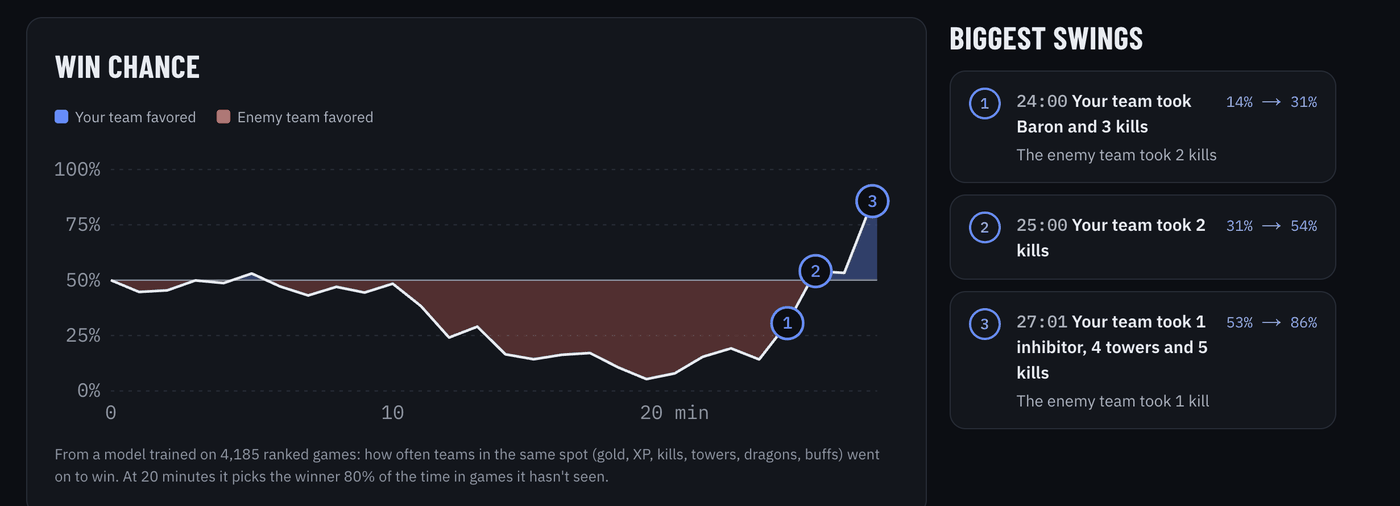
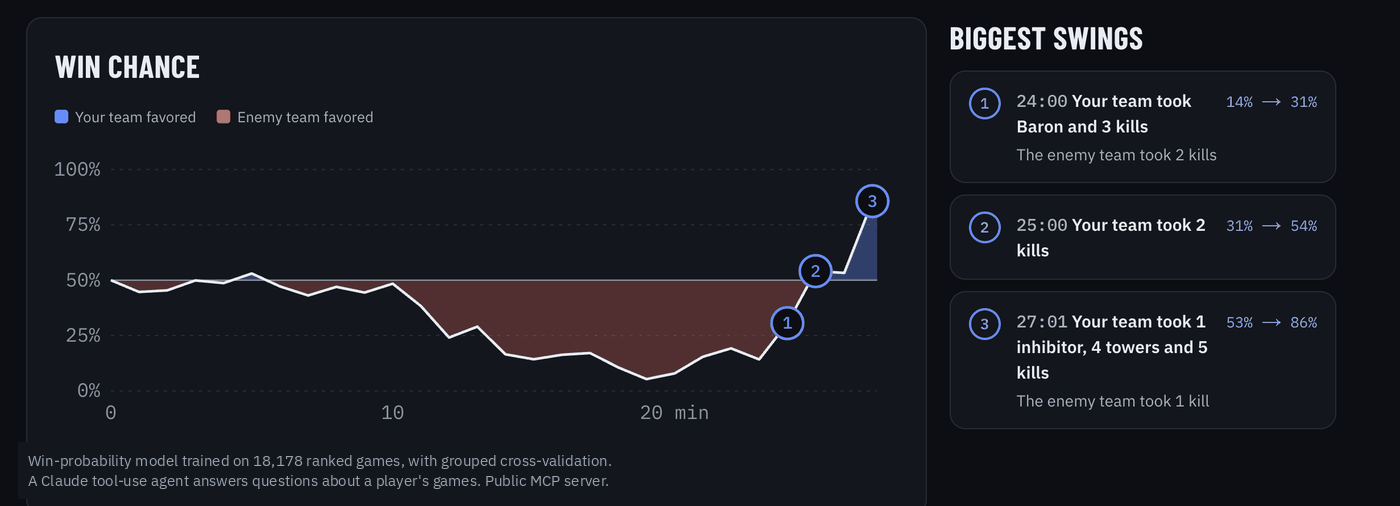
Update the portfolio to the October 2026 résumé.
Show Turnpoint, Petri, and X Arena with résumé-backed claims, refresh the bio and skills, and drop the old 80% / 4,000-game stats from the page and preview images.

Changed region(s): [[0.0, 0.8893, 0.645, 0.9783]]

diff --git a/index.html b/index.html
@@ -4,14 +4,14 @@
 <meta charset="utf-8">
 <meta name="theme-color" content="#000000">
 <meta name="viewport" content="width=device-width, initial-scale=1, viewport-fit=cover">
-<meta name="description" content="Jasper Li, CS student at the University of Toronto. Portfolio featuring Turnpoint, a League of Legends match analyzer.">
+<meta name="description" content="Jasper Li, second-year CS Specialist at the University of Toronto. Solo AI apps: Turnpoint, Petri, and X Arena.">
 <title>Jasper Li</title>
 <link rel="icon" href="favicon.svg" type="image/svg+xml">
 <link rel="canonical" href="https://jaspyplayz.github.io/">
 <meta property="og:type" content="website">
 <meta property="og:url" content="https://jaspyplayz.github.io/">
 <meta property="og:title" content="Jasper Li">
-<meta property="og:description" content="CS student at the University of Toronto. Builder of Turnpoint, a League of Legends match analyzer.">
+<meta property="og:description" content="Second-year CS Specialist at U of T. Solo shipped AI apps: Turnpoint, a League match analyzer; Petri, a self-evolving web app; and X Arena.">
 <meta property="og:image" content="https://jaspyplayz.github.io/img/og.png">
 <meta property="og:image:width" content="1200">
 <meta property="og:image:height" content="630">
@@ -20,7 +20,7 @@
 <link rel="preconnect" href="https://fonts.gstatic.com" crossorigin>
 <link rel="stylesheet" href="https://fonts.googleapis.com/css2?family=Archivo:wdth,wght@62..125,400..800&family=IBM+Plex+Sans:wght@400;500;600&family=JetBrains+Mono:wght@400;600&display=swap">
 <style>
-/* All-black, single theme. Layout: one compact card-width column; header, one project, skills, contact. */
+/* All-black, single theme. Layout: one compact card-width column; header, projects, skills, contact. */
 :root {
   --bg: #000000;
   --surface: #0a0a0a;
@@ -56,13 +56,16 @@ header p.bio { color: var(--muted); max-width: 60ch; }
 
 .label { font: 600 .68rem/1 var(--mono); letter-spacing: .14em; text-transform: uppercase; color: var(--muted); margin-bottom: 10px; }
 
-.project { display: block; background: var(--surface); border: 1px solid var(--line); border-radius: 10px; overflow: hidden; text-decoration: none; transition: border-color .15s; }
-.project:hover { border-color: #555; color: inherit; }
+.projects { display: grid; gap: 14px; }
+.project { display: block; background: var(--surface); border: 1px solid var(--line); border-radius: 10px; overflow: hidden; text-decoration: none; }
+.project:hover { border-color: #333; }
 .project img { display: block; width: 100%; height: auto; border-bottom: 1px solid var(--line); }
 .project .body { padding: 14px 16px 16px; display: grid; gap: 8px; }
 .project .row { display: flex; justify-content: space-between; align-items: baseline; gap: 12px; flex-wrap: wrap; }
 h2 { font-size: 1.15rem; font-weight: 700; }
-.repo { font: 400 .75rem/1 var(--mono); color: var(--gold); }
+.repo { font: 400 .75rem/1 var(--mono); color: var(--gold); text-decoration: none; }
+a.repo:hover { text-decoration: underline; }
+.repo.quiet { color: var(--muted); }
 .project p { color: var(--muted); font-size: .9rem; }
 .stats { display: flex; flex-wrap: wrap; gap: 4px 16px; font: 400 .75rem/1.4 var(--mono); color: var(--muted); font-variant-numeric: tabular-nums; }
 .stats b { color: var(--ink); font-weight: 600; }
@@ -94,8 +97,8 @@ h2 { font-size: 1.15rem; font-weight: 700; }
 <main>
   <header>
     <h1>Jasper Li</h1>
-    <div class="sub">CS @ University of Toronto · <a href="https://github.com/Jaspyplayz" target="_blank" rel="noopener">github.com/Jaspyplayz</a></div>
-    <p class="bio">I build tools that turn raw game data into something a player can act on.</p>
+    <div class="sub">CS Specialist · University of Toronto, St. George · Expected 2029</div>
+    <p class="bio">I build shipped AI products. The projects here are solo and personal, not affiliated with the university.</p>
     <div class="contact">
       <a href="https://github.com/Jaspyplayz" target="_blank" rel="noopener"><svg class="ico" viewBox="0 0 24 24" aria-hidden="true"><path fill="currentColor" d="M12 .297c-6.63 0-12 5.373-12 12 0 5.303 3.438 9.8 8.205 11.385.6.113.82-.258.82-.577 0-.285-.01-1.04-.015-2.04-3.338.724-4.042-1.61-4.042-1.61C4.422 18.07 3.633 17.7 3.633 17.7c-1.087-.744.084-.729.084-.729 1.205.084 1.838 1.236 1.838 1.236 1.07 1.835 2.809 1.305 3.495.998.108-.776.417-1.305.76-1.605-2.665-.3-5.466-1.332-5.466-5.93 0-1.31.465-2.38 1.235-3.22-.135-.303-.54-1.523.105-3.176 0 0 1.005-.322 3.3 1.23.96-.267 1.98-.399 3-.405 1.02.006 2.04.138 3 .405 2.28-1.552 3.285-1.23 3.285-1.23.645 1.653.24 2.873.12 3.176.765.84 1.23 1.91 1.23 3.22 0 4.61-2.805 5.625-5.475 5.92.42.36.81 1.096.81 2.22 0 1.606-.015 2.896-.015 3.286 0 .315.21.69.825.57C20.565 22.092 24 17.592 24 12.297c0-6.627-5.373-12-12-12"/></svg>GitHub</a>
       <a href="https://www.linkedin.com/in/jasper-li-567560349/" target="_blank" rel="noopener"><svg class="ico" viewBox="0 0 24 24" aria-hidden="true"><path fill="currentColor" d="M20.447 20.452h-3.554v-5.569c0-1.328-.027-3.037-1.852-3.037-1.853 0-2.136 1.445-2.136 2.939v5.667H9.351V9h3.414v1.561h.046c.477-.9 1.637-1.85 3.37-1.85 3.601 0 4.267 2.37 4.267 5.455v6.286zM5.337 7.433c-1.144 0-2.063-.926-2.063-2.065 0-1.138.92-2.063 2.063-2.063 1.14 0 2.064.925 2.064 2.063 0 1.139-.925 2.065-2.064 2.065zm1.782 13.019H3.555V9h3.564v11.452zM22.225 0H1.771C.792 0 0 .774 0 1.729v20.542C0 23.227.792 24 1.771 24h20.451C23.2 24 24 23.227 24 22.271V1.729C24 .774 23.2 0 22.222 0h.003z"/></svg>LinkedIn</a>
@@ -106,8 +109,8 @@ h2 { font-size: 1.15rem; font-weight: 700; }
   <section>
     <div class="label">About</div>
     <div class="about">
-      <p>I'm a computer science student at the University of Toronto. I like projects where the hard part is turning messy data into an answer someone can use, and most of mine start with games I play.</p>
-      <p>Lately that's meant full-stack TypeScript, Postgres, and small machine learning models written from scratch. I'm looking for internships and teams where I can ship real things and learn from people who've done it longer.</p>
+      <p>I'm a second-year Computer Science Specialist at the University of Toronto, St. George, expecting to graduate in 2029. I like projects where the hard part is turning a messy game, or someone's idea, into something that ships.</p>
+      <p>I'm looking for software engineering and AI engineering internships in Toronto and Canada.</p>
     </div>
   </section>
 
@@ -120,22 +123,41 @@ h2 { font-size: 1.15rem; font-weight: 700; }
   </section>
 
   <section>
-    <div class="label">Project</div>
-    <a class="project" href="https://github.com/Jaspyplayz/League-Web-App" target="_blank" rel="noopener">
-      <img src="img/hero.png" width="1400" height="506" alt="Turnpoint match page showing a team's win chance at every minute">
-      <div class="body">
-        <div class="row"><h2>Turnpoint</h2><span class="repo">Jaspyplayz/League-Web-App ↗</span></div>
-        <p>A League of Legends match analyzer. It compares you to the enemy in your role minute by minute and explains the turning points that decided the game, using win-chance and game-score models I wrote from scratch in TypeScript.</p>
-        <div class="stats"><span><b>80%</b> winner picked at 20:00</span><span><b>84%</b> from player stats alone</span><span><b>4,000+</b> training games</span></div>
-      </div>
-    </a>
-    <p class="more" style="margin-top:8px">Live at <a href="https://league-web-app.vercel.app" target="_blank" rel="noopener">league-web-app.vercel.app</a></p>
+    <div class="label">Projects</div>
+    <div class="projects">
+      <article class="project">
+        <img src="img/hero.png" width="1400" height="506" alt="Turnpoint match page showing a team's win chance at every minute">
+        <div class="body">
+          <div class="row"><h2>Turnpoint</h2><a class="repo" href="https://github.com/Jaspyplayz/League-Web-App" target="_blank" rel="noopener">Jaspyplayz/League-Web-App ↗</a></div>
+          <p>A League of Legends match analyzer. The win-probability model was trained on 18,178 ranked games and checked with grouped cross-validation. It ranks a player's top 3 plays by how much they moved that probability. A Claude tool-use agent answers questions about their games, and a public MCP server exposes the same analysis.</p>
+          <div class="stats"><span><b>18,178</b> ranked games</span><span>Claude tool-use agent</span><span>public MCP server</span></div>
+          <p class="more">Live at <a href="https://league-web-app.vercel.app" target="_blank" rel="noopener">league-web-app.vercel.app</a></p>
+        </div>
+      </article>
+
+      <article class="project">
+        <div class="body">
+          <div class="row"><h2>Petri</h2><a class="repo" href="https://github.com/Jaspyplayz/petri" target="_blank" rel="noopener">Jaspyplayz/petri ↗</a></div>
+          <p>A self-evolving web app. Visitor feedback becomes pull requests from a sandboxed agent, browser-checked, then merged only as far as a 5-level trust ladder in code allows (currently level 1). A Sentry monitor can roll production back on Vercel and pause the agents.</p>
+          <div class="stats"><span><b>7</b> of ~110 PRs from the feedback loop</span><span><b>~5 min</b> fault-injection rollback</span></div>
+          <p class="more">Live at <a href="https://petri-pi.vercel.app" target="_blank" rel="noopener">petri-pi.vercel.app</a></p>
+        </div>
+      </article>
+
+      <article class="project">
+        <div class="body">
+          <div class="row"><h2>X Arena</h2><span class="repo quiet">Private · unpublished</span></div>
+          <p>A multiplayer Roblox hero arena shooter. Server-authoritative combat uses per-body-part hitboxes and lag compensation. It's Luau, built with Rojo and GitHub Actions, and Studio playtests run through Roblox Studio MCP. There is no public game.</p>
+          <div class="stats"><span><b>16/16</b> aimed headshots in a 150ms Studio test</span><span>was ~3/17 before lag compensation</span></div>
+        </div>
+      </article>
+    </div>
   </section>
 
   <section>
     <div class="label">Skills</div>
     <ul class="chips">
-      <li>TypeScript</li><li>Python</li><li>Next.js</li><li>React</li><li>Tailwind CSS</li><li>Postgres</li><li>Supabase</li><li>Drizzle</li><li>Vitest</li><li>Playwright</li><li>GitHub Actions</li><li>Vercel</li>
+      <li>TypeScript</li><li>JavaScript</li><li>Python</li><li>Java</li><li>Luau</li><li>SQL</li><li>Next.js</li><li>React</li><li>Tailwind</li><li>Supabase</li><li>Vercel</li><li>GitHub Actions</li><li>Sentry</li><li>Vitest</li><li>Playwright</li><li>Claude API</li><li>MCP</li><li>Git</li>
     </ul>
   </section>
 

diff --git a/README.md b/README.md
@@ -1,5 +1,5 @@
 # Jasper Li — portfolio
 
-My personal site, featuring [Turnpoint](https://github.com/Jaspyplayz/League-Web-App).
+Personal site for solo projects: [Turnpoint](https://github.com/Jaspyplayz/League-Web-App), [Petri](https://github.com/Jaspyplayz/petri), and X Arena (private, unpublished).
 
 It's a single static `index.html` served by GitHub Pages at https://jaspyplayz.github.io. No build step.
